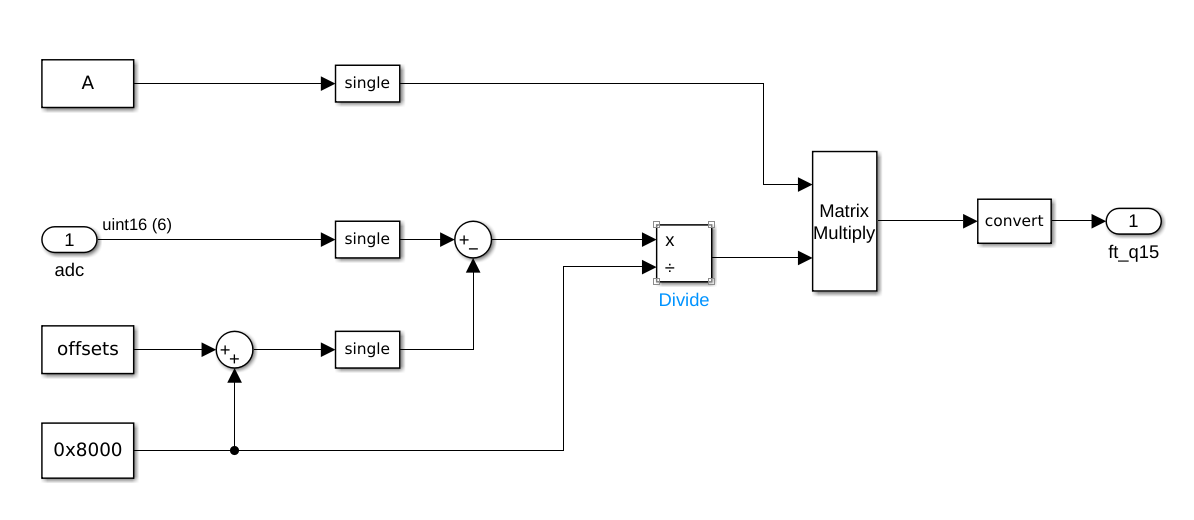
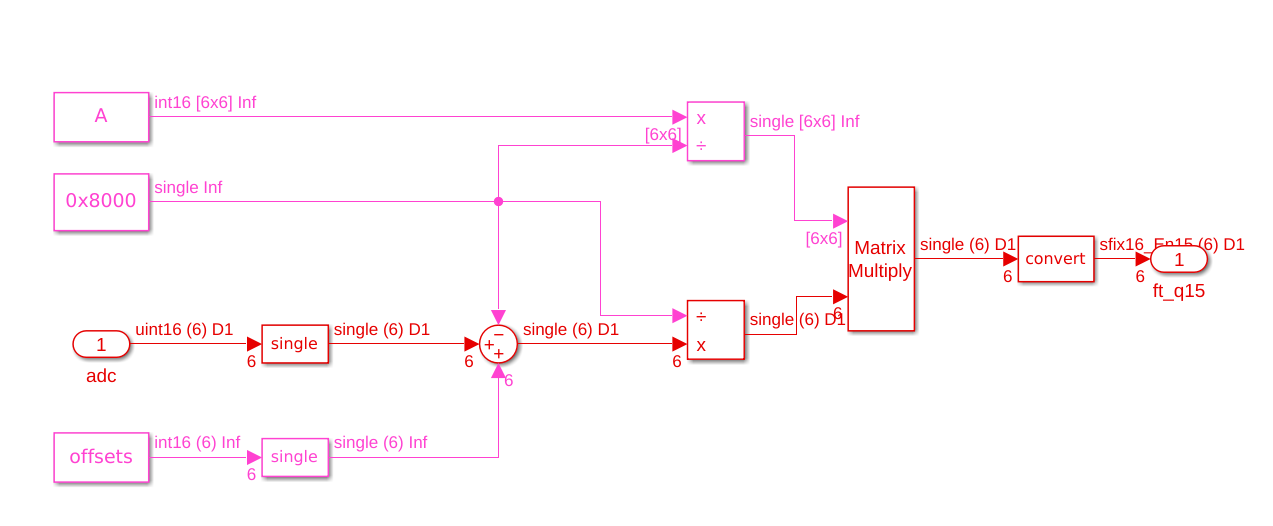
fix doc

diff --git a/ft_sensor/README.md b/ft_sensor/README.md
@@ -16,6 +16,7 @@ The model is used for code generation.
 
 # 3. The model
 The model implements the conversion from ADC raw values to Force-Torque values in the Strain2 sensor.
+The calculations inside the model are performed in single-precision (4 bytes).
 
 ## 3.1. Input
 ADC raw values are an array of 6 values, 16 bit each, type: **unsigned**.
@@ -26,7 +27,7 @@ The output is back-compatible with the current YARP implementation.
 
 ## 3.3. Parameters
 - Conversion matrix dimensions 6x6, 16 bit each, type: **integer**.
-- Offset dimensions 6x1, 16 bit each, type: **unsigned**.
+- Offset dimensions 6x1, 16 bit each, type: **integer**.
 
 # 4. Code generation
 
@@ -75,7 +76,7 @@ From *Code Generation->Optimization*, select ```Minimum (debugging)``` in **Leve
 # 5. Note
 
 ## 5.1. Public parameters
-The parameters needs to have public access.
-To specify that, click on the `Code Interface` button of tha App and then the `Model parameters` option.  
+The parameters need to have public access.
+To specify that, click on the `Code Interface` button of the App and then the `Model parameters` option.  
 
 <img src="assets/public-parameters.png" width="600px">
